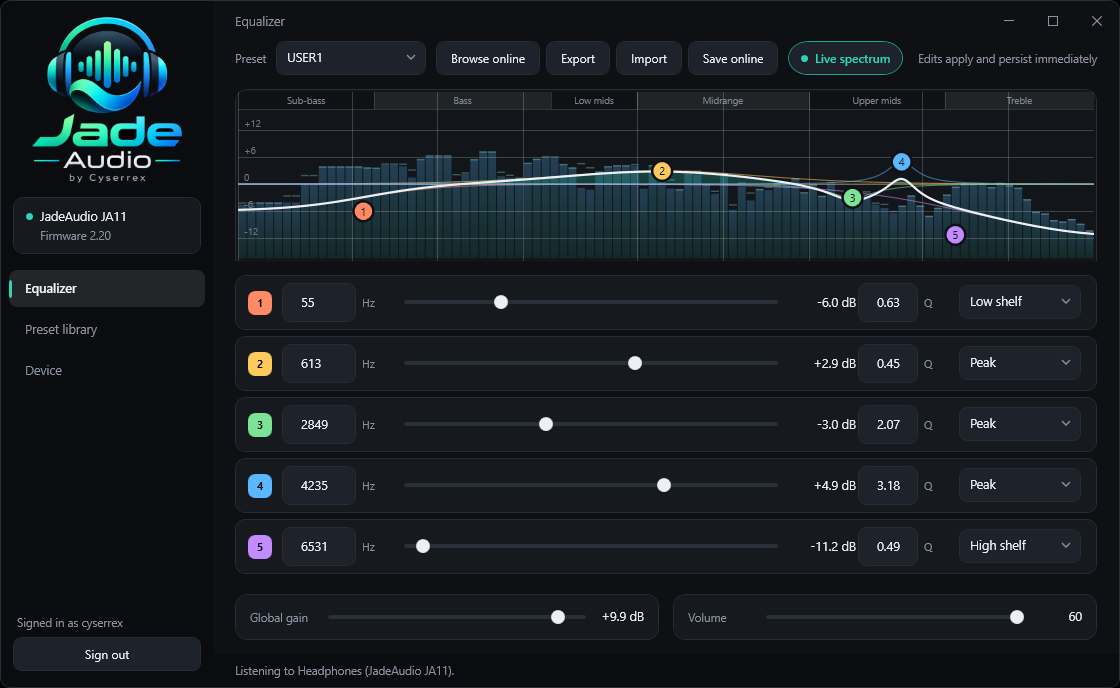
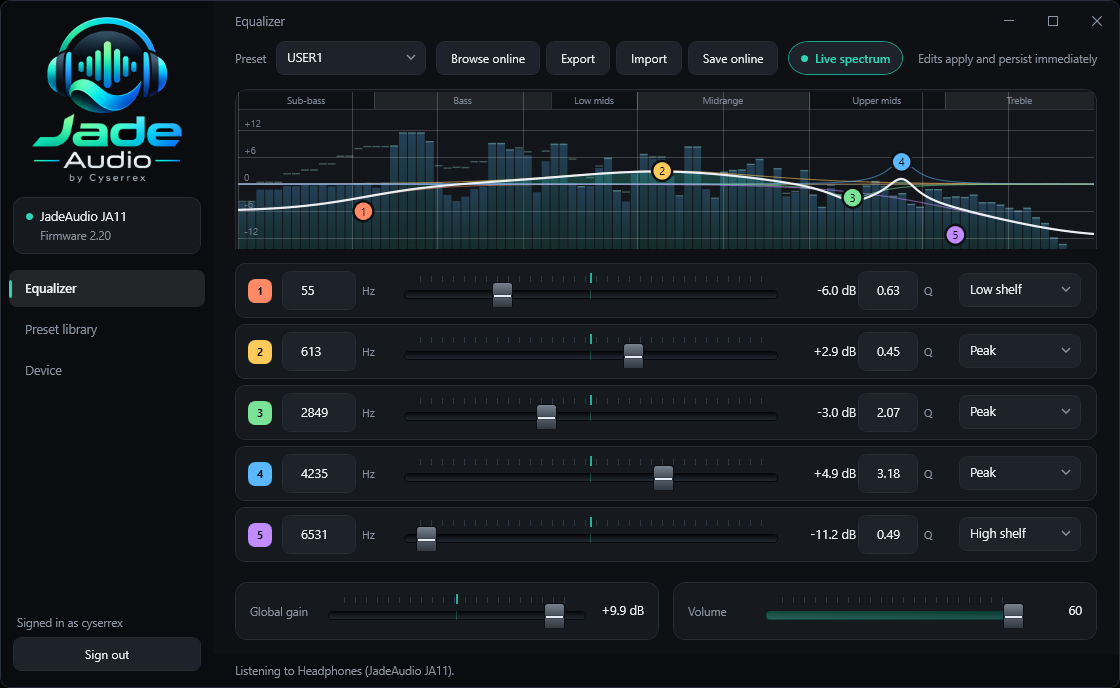
Draw the sliders as mixer faders
A thin line with a dot on it says very little about what kind of control it is.
The sliders are now faders: a recessed groove, a tick scale above it, and a
capped thumb with a bright centre line, which is the part a person actually
reads on a real fader.

Gain and volume stopped sharing a look, because they are not the same control.
Volume runs from nothing upward, so a fill is honest there. Gain swings either
side of zero, so the fill is gone - a bar growing from the left edge claims
-6 dB is "40% of something" - and the centre is marked the way a pitch fader
marks its detent.

diff --git a/csharp/JadeAudioControl/Theme.xaml b/csharp/JadeAudioControl/Theme.xaml
@@ -193,47 +193,138 @@
         </Setter>
     </Style>
 
-    <!-- Slider: thin track, accent fill, round thumb that grows on hover -->
+    <!-- Fader: a recessed groove with a tick scale and a capped thumb, the way
+         a mixer's pitch fader reads - the cap's centre line is the value, not
+         the edge of a dot. -->
+    <DrawingBrush x:Key="FaderTicks" TileMode="Tile" Stretch="None"
+                  Viewport="0,0,11,6" ViewportUnits="Absolute">
+        <DrawingBrush.Drawing>
+            <GeometryDrawing Brush="#3A424E">
+                <GeometryDrawing.Geometry>
+                    <RectangleGeometry Rect="0,0,1,6" />
+                </GeometryDrawing.Geometry>
+            </GeometryDrawing>
+        </DrawingBrush.Drawing>
+    </DrawingBrush>
+
+    <LinearGradientBrush x:Key="FaderGroove" StartPoint="0,0" EndPoint="0,1">
+        <GradientStop Color="#08090C" Offset="0" />
+        <GradientStop Color="#171B21" Offset="0.55" />
+        <GradientStop Color="#232932" Offset="1" />
+    </LinearGradientBrush>
+
+    <LinearGradientBrush x:Key="FaderCap" StartPoint="0,0" EndPoint="0,1">
+        <GradientStop Color="#78838F" Offset="0" />
+        <GradientStop Color="#49525D" Offset="0.42" />
+        <GradientStop Color="#232931" Offset="0.5" />
+        <GradientStop Color="#4E5763" Offset="0.58" />
+        <GradientStop Color="#2B313A" Offset="1" />
+    </LinearGradientBrush>
+
+    <ControlTemplate x:Key="FaderThumb" TargetType="Thumb">
+        <Grid>
+            <Border x:Name="Glow" Width="30" Height="34" CornerRadius="6"
+                    Background="{StaticResource Accent}" Opacity="0" />
+            <Border x:Name="Cap" Width="21" Height="28" CornerRadius="3"
+                    Background="{StaticResource FaderCap}"
+                    BorderBrush="#0B0E12" BorderThickness="1">
+                <Border.Effect>
+                    <DropShadowEffect BlurRadius="6" ShadowDepth="1.5" Opacity="0.55" Color="Black" />
+                </Border.Effect>
+                <!-- The indicator line: on a real fader this is what you read. -->
+                <Rectangle x:Name="Line" Height="2" Width="17" Fill="#E6EDF5"
+                           VerticalAlignment="Center" HorizontalAlignment="Center" />
+            </Border>
+        </Grid>
+        <ControlTemplate.Triggers>
+            <Trigger Property="IsMouseOver" Value="True">
+                <Setter TargetName="Glow" Property="Opacity" Value="0.18" />
+                <Setter TargetName="Line" Property="Fill" Value="{StaticResource Accent}" />
+            </Trigger>
+            <Trigger Property="IsDragging" Value="True">
+                <Setter TargetName="Glow" Property="Opacity" Value="0.30" />
+                <Setter TargetName="Line" Property="Fill" Value="{StaticResource Accent}" />
+            </Trigger>
+        </ControlTemplate.Triggers>
+    </ControlTemplate>
+
+    <ControlTemplate x:Key="FaderFilled" TargetType="RepeatButton">
+        <Border Height="9" CornerRadius="4" Margin="0,0,-6,0"
+                Background="{StaticResource AccentGradient}" Opacity="0.32" />
+    </ControlTemplate>
+
+    <ControlTemplate x:Key="FaderEmpty" TargetType="RepeatButton">
+        <Border Background="Transparent" />
+    </ControlTemplate>
+
     <Style x:Key="ModernSlider" TargetType="Slider">
-        <Setter Property="MinHeight" Value="22" />
+        <Setter Property="MinHeight" Value="34" />
         <Setter Property="Focusable" Value="False" />
         <Setter Property="Template">
             <Setter.Value>
                 <ControlTemplate TargetType="Slider">
-                    <Grid VerticalAlignment="Center">
-                        <Border Height="4" CornerRadius="2" Background="#2A303A" />
-                        <Border x:Name="Fill" Height="4" CornerRadius="2"
-                                Background="{StaticResource AccentGradient}"
-                                HorizontalAlignment="Left" />
-                        <Track x:Name="PART_Track">
-                            <Track.DecreaseRepeatButton>
-                                <RepeatButton Command="Slider.DecreaseLarge" Opacity="0" Focusable="False" />
-                            </Track.DecreaseRepeatButton>
-                            <Track.IncreaseRepeatButton>
-                                <RepeatButton Command="Slider.IncreaseLarge" Opacity="0" Focusable="False" />
-                            </Track.IncreaseRepeatButton>
-                            <Track.Thumb>
-                                <Thumb x:Name="Thumb" Width="14" Height="14" Cursor="Hand">
-                                    <Thumb.Template>
-                                        <ControlTemplate TargetType="Thumb">
-                                            <Grid>
-                                                <Ellipse x:Name="Glow" Width="22" Height="22"
-                                                         Fill="{StaticResource Accent}" Opacity="0" />
-                                                <Ellipse Width="14" Height="14" Fill="{StaticResource Text}" />
-                                            </Grid>
-                                            <ControlTemplate.Triggers>
-                                                <Trigger Property="IsMouseOver" Value="True">
-                                                    <Setter TargetName="Glow" Property="Opacity" Value="0.25" />
-                                                </Trigger>
-                                                <Trigger Property="IsDragging" Value="True">
-                                                    <Setter TargetName="Glow" Property="Opacity" Value="0.4" />
-                                                </Trigger>
-                                            </ControlTemplate.Triggers>
-                                        </ControlTemplate>
-                                    </Thumb.Template>
-                                </Thumb>
-                            </Track.Thumb>
-                        </Track>
+                    <Grid Height="34">
+                        <Rectangle Height="6" Margin="11,3,11,0" VerticalAlignment="Top"
+                                   Fill="{StaticResource FaderTicks}" Opacity="0.75" />
+                        <Border Height="9" Margin="0,9,0,0" CornerRadius="4"
+                                Background="{StaticResource FaderGroove}"
+                                BorderBrush="#05070A" BorderThickness="1" />
+                        <Grid Margin="0,9,0,0">
+                            <Track x:Name="PART_Track">
+                                <Track.DecreaseRepeatButton>
+                                    <RepeatButton Command="Slider.DecreaseLarge" Focusable="False"
+                                                  Template="{StaticResource FaderFilled}" />
+                                </Track.DecreaseRepeatButton>
+                                <Track.IncreaseRepeatButton>
+                                    <RepeatButton Command="Slider.IncreaseLarge" Focusable="False"
+                                                  Template="{StaticResource FaderEmpty}" />
+                                </Track.IncreaseRepeatButton>
+                                <Track.Thumb>
+                                    <Thumb Width="21" Cursor="Hand"
+                                           Template="{StaticResource FaderThumb}" />
+                                </Track.Thumb>
+                            </Track>
+                        </Grid>
+                    </Grid>
+                </ControlTemplate>
+            </Setter.Value>
+        </Setter>
+    </Style>
+
+    <!-- Gain runs either side of zero, so mark the centre the way a pitch
+         fader marks its detent. -->
+    <Style x:Key="CentredSlider" TargetType="Slider" BasedOn="{StaticResource ModernSlider}">
+        <Setter Property="Template">
+            <Setter.Value>
+                <ControlTemplate TargetType="Slider">
+                    <Grid Height="34">
+                        <Rectangle Height="6" Margin="11,3,11,0" VerticalAlignment="Top"
+                                   Fill="{StaticResource FaderTicks}" Opacity="0.75" />
+                        <Rectangle Width="2" Height="10" VerticalAlignment="Top" Margin="0,0,0,0"
+                                   HorizontalAlignment="Center" Fill="{StaticResource Accent}"
+                                   Opacity="0.8" />
+                        <Border Height="9" Margin="0,9,0,0" CornerRadius="4"
+                                Background="{StaticResource FaderGroove}"
+                                BorderBrush="#05070A" BorderThickness="1" />
+                        <Rectangle Width="1" Height="9" Margin="0,9,0,0"
+                                   HorizontalAlignment="Center" VerticalAlignment="Center"
+                                   Fill="{StaticResource Accent}" Opacity="0.28" />
+                        <Grid Margin="0,9,0,0">
+                            <Track x:Name="PART_Track">
+                                <Track.DecreaseRepeatButton>
+                                    <RepeatButton Command="Slider.DecreaseLarge" Focusable="False"
+                                                  Template="{StaticResource FaderEmpty}" />
+                                </Track.DecreaseRepeatButton>
+                                <Track.IncreaseRepeatButton>
+                                    <RepeatButton Command="Slider.IncreaseLarge" Focusable="False"
+                                                  Template="{StaticResource FaderEmpty}" />
+                                </Track.IncreaseRepeatButton>
+                                <Track.Thumb>
+                                    <Thumb Width="21" Cursor="Hand"
+                                           Template="{StaticResource FaderThumb}" />
+                                </Track.Thumb>
+                            </Track>
+                        </Grid>
                     </Grid>
                 </ControlTemplate>
             </Setter.Value>

diff --git a/csharp/JadeAudioControl/MainWindow.xaml b/csharp/JadeAudioControl/MainWindow.xaml
@@ -157,7 +157,7 @@
                                     </Grid.ColumnDefinitions>
                                     <TextBlock Text="Global gain" Style="{StaticResource Caption}"
                                                VerticalAlignment="Center" Width="78" />
-                                    <Slider x:Name="PreampSlider" Grid.Column="1" Style="{StaticResource ModernSlider}"
+                                    <Slider x:Name="PreampSlider" Grid.Column="1" Style="{StaticResource CentredSlider}"
                                             Minimum="-12" Maximum="12" TickFrequency="0.1" IsSnapToTickEnabled="True"
                                             ValueChanged="Preamp_Changed" />
                                     <TextBlock x:Name="PreampValue" Grid.Column="2" Text="0.0 dB"

diff --git a/csharp/JadeAudioControl/Controls/BandRow.cs b/csharp/JadeAudioControl/Controls/BandRow.cs
@@ -83,7 +83,8 @@ public sealed class BandRow : Border
             Value = MathEx.Clamp(band.Gain, gainRange.Min, gainRange.Max),
             TickFrequency = 0.1,
             IsSnapToTickEnabled = true,
-            Style = (Style)Application.Current.Resources["ModernSlider"],
+            // Gain swings either side of zero, so it gets the detented fader.
+            Style = (Style)Application.Current.Resources["CentredSlider"],
             VerticalAlignment = VerticalAlignment.Center,
             Margin = new Thickness(10, 0, 10, 0),
         };

diff --git a/csharp/README.md b/csharp/README.md
@@ -169,6 +169,18 @@ Loopback is shared-mode, so a player holding the device in exclusive mode
 (WASAPI exclusive, ASIO) will show nothing. That is the API's behaviour, not a
 fault in the capture.
 
+## The faders
+
+The sliders are drawn as mixer faders: a recessed groove, a tick scale, and a
+capped thumb whose bright centre line is the value being read - not the edge of
+a dot.
+
+Gain and volume are not the same kind of control, so they are not drawn the
+same. Volume runs from nothing upward and carries a fill. Gain swings either
+side of zero, so it has no fill at all - a bar growing from the left edge would
+say -6 dB is "40% of something" - and it marks its centre the way a pitch fader
+marks its detent.
+
 ## Naming the spectrum
 
 A plot of frequencies only helps someone who already knows which frequency is

diff --git a/.github/release-notes.md b/.github/release-notes.md
@@ -34,6 +34,9 @@ other.
   playing, drawn behind the EQ curve on the same axis, so you can see what a
   band does to real music while you drag it. On by default; the toolbar toggle
   turns it off. It listens through WASAPI loopback; nothing is recorded.
+- **Mixer-style faders** — a recessed groove, a tick scale and a capped thumb
+  with a centre indicator line. Gain faders mark their zero detent and carry no
+  fill, since gain runs either side of zero.
 - **Device** — what the dongle reports about itself, a firmware check, and
   backup/restore of every preset to a JSON file. The check compares the
   installed version against a published list and points at FiiO's download page;
